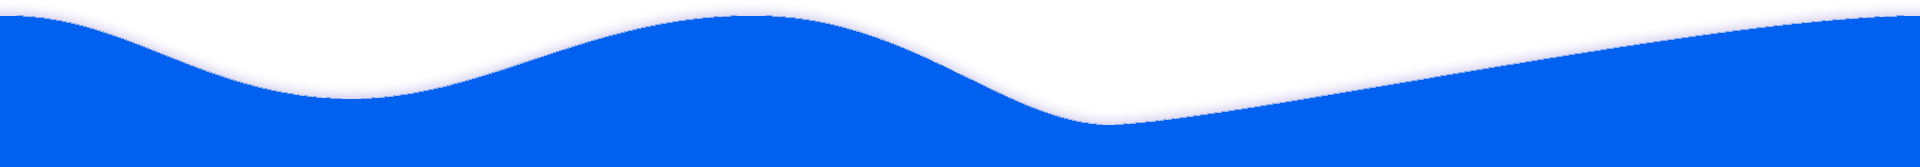
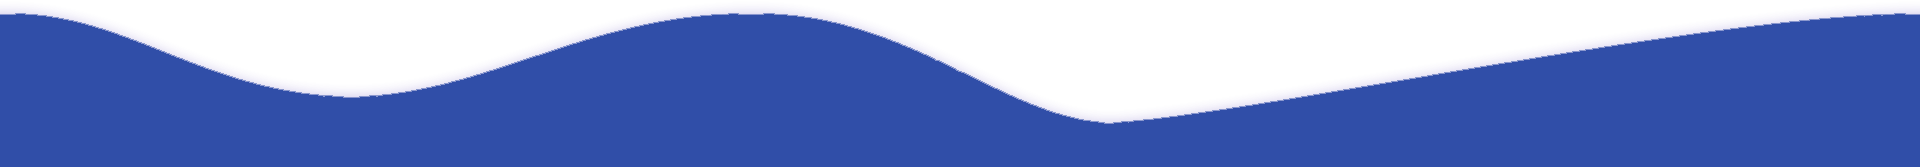
waterfront colors adjusted

diff --git a/src/pages/private/erotas/scenes/BillingStatement.jsx b/src/pages/private/erotas/scenes/BillingStatement.jsx
@@ -11,8 +11,8 @@ import {
   Typography,
 } from "@mui/material";
 // import logo from "../../../../assets/images/EARTH-Logo.png";
-import uglogo from "../../../../assets/uglogoedited.png";
-import bonalogo from "../../../../assets/bontradelogoedited.png";
+import uglogo from "../../../../assets/ugtrade.png";
+import bonalogo from "../../../../assets/bontrade.png";
 import eglogo from "../../../../assets/eglogistics.png";
 import erologo from "../../../../assets/erotas.png";
 

diff --git a/src/pages/private/ugtrade/scenes/BillingStatement.jsx b/src/pages/private/ugtrade/scenes/BillingStatement.jsx
@@ -11,8 +11,8 @@ import {
   Typography,
 } from "@mui/material";
 // import logo from "../../../../assets/images/EARTH-Logo.png";
-import uglogo from "../../../../assets/uglogoedited.png";
-import bonalogo from "../../../../assets/bontradelogoedited.png";
+import uglogo from "../../../../assets/ugtrade.png";
+import bonalogo from "../../../../assets/bontrade.png";
 import eglogo from "../../../../assets/eglogistics.png";
 import erologo from "../../../../assets/erotas.png";
 

diff --git a/src/pages/landing/waterrfront.jsx b/src/pages/landing/waterrfront.jsx
@@ -133,7 +133,8 @@ function ContentItem() {
               width: 130,
               height: 50,
               fontFamily: "poppins",
-              backgroundColor: "#00c0fe",
+              // backgroundColor: "#304ea84",
+              backgroundColor: "rgba(48, 78, 168, 0.9)",
               mr: 0.2,
               color: "black",
               boxShadow: "3px 3px 5px #56d5ff, 10px 10px 40px #56d5ff",

diff --git a/src/pages/private/bontrade/scenes/BillingStatement.jsx b/src/pages/private/bontrade/scenes/BillingStatement.jsx
@@ -12,7 +12,7 @@ import {
 } from "@mui/material";
 // import logo from "../../../../assets/images/EARTH-Logo.png";
 import uglogo from "../../../../assets/ugtrade.png";
-import bonalogo from "../../../../assets/bontradelogoedited.png";
+import bonalogo from "../../../../assets/bontrade.png";
 import eglogo from "../../../../assets/eglogistics.png";
 import erologo from "../../../../assets/erotas.png";
 

diff --git a/src/components/PrivateComponents/bontrade/TopBar/topBar.js b/src/components/PrivateComponents/bontrade/TopBar/topBar.js
@@ -7,7 +7,7 @@ import Toolbar from "@mui/material/Toolbar";
 import Typography from "@mui/material/Typography";
 // import Button from "@mui/material/Button";
 import IconButton from "@mui/material/IconButton";
-import Logo from "assets/bontradelogoedited.png";
+import Logo from "assets/bontrade.png";
 
 function StickyAppBar() {
   const navigate = useNavigate();

diff --git a/src/components/PrivateComponents/erotas/TopBar/topBar.js b/src/components/PrivateComponents/erotas/TopBar/topBar.js
@@ -7,7 +7,7 @@ import Toolbar from "@mui/material/Toolbar";
 import Typography from "@mui/material/Typography";
 // import Button from "@mui/material/Button";
 import IconButton from "@mui/material/IconButton";
-import Logo from "assets/erotaslogoedited.png";
+import Logo from "assets/erotas.png";
 
 function StickyAppBar() {
   const navigate = useNavigate();

diff --git a/src/components/PrivateComponents/ugtrade/TopBar/topBar.js b/src/components/PrivateComponents/ugtrade/TopBar/topBar.js
@@ -7,7 +7,7 @@ import Toolbar from "@mui/material/Toolbar";
 import Typography from "@mui/material/Typography";
 // import Button from "@mui/material/Button";
 import IconButton from "@mui/material/IconButton";
-import Logo from "assets/uglogoedited.png";
+import Logo from "assets/ugtrade.png";
 
 function StickyAppBar() {
   const navigate = useNavigate();

diff --git a/src/pages/index.jsx b/src/pages/index.jsx
@@ -1,4 +1,4 @@
-export { default as LandingPage } from "./landing";
+export { default as LandingPage } from "./landing/waterrfront";
 export { default as Login } from "./auth/sign-in";
 export { default as Unauthorized } from "./errorPages/unauthorized";
 export { default as Missing } from "./errorPages/missing";

diff --git a/src/App.js b/src/App.js
@@ -15,7 +15,7 @@ import {
   Erotas,
 } from "pages";
 import themes from "./themes/theme";
-import LandingPage from "./pages/landing";
+import LandingPage from "./pages/landing/waterrfront";
 
 const { ColorModeContext, useMode } = themes;
 

diff --git a/src/pages/landing/landing1.jsx b/src/pages/landing/landing1.jsx
@@ -1,0 +1,6 @@
+import React from "react";
+// import { Button } from "@mui/material";
+
+export default function Landing1() {
+  return <div />;
+}
